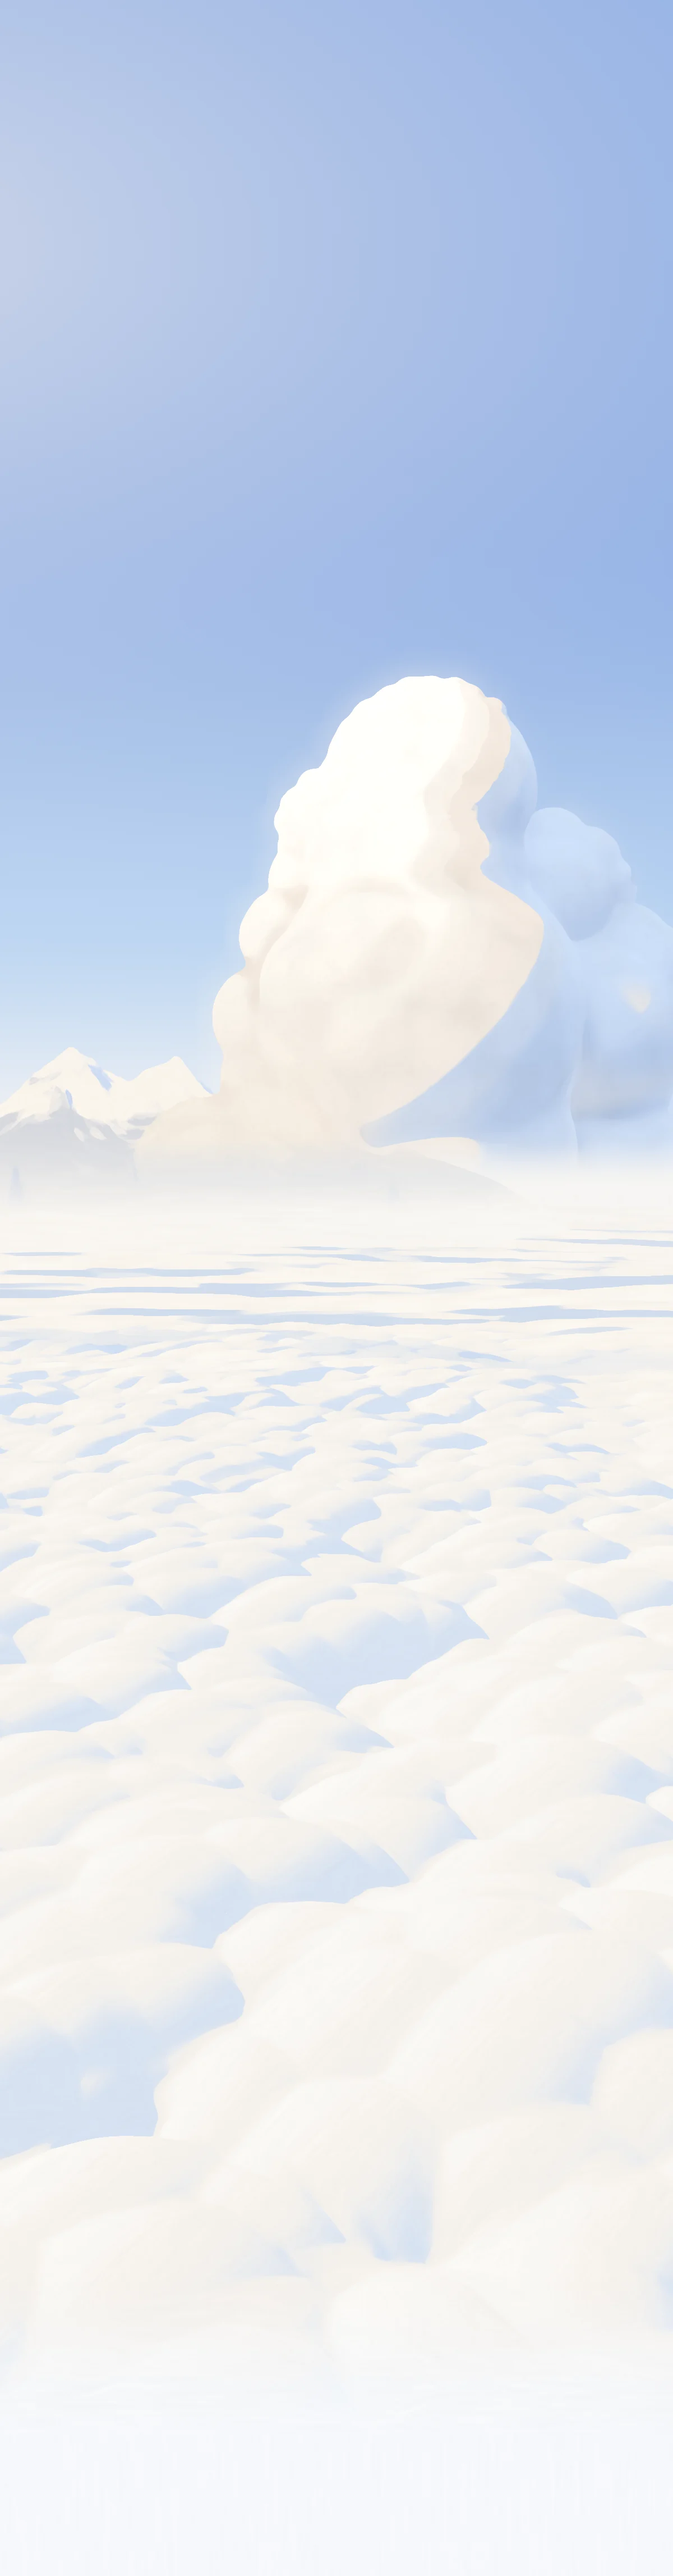
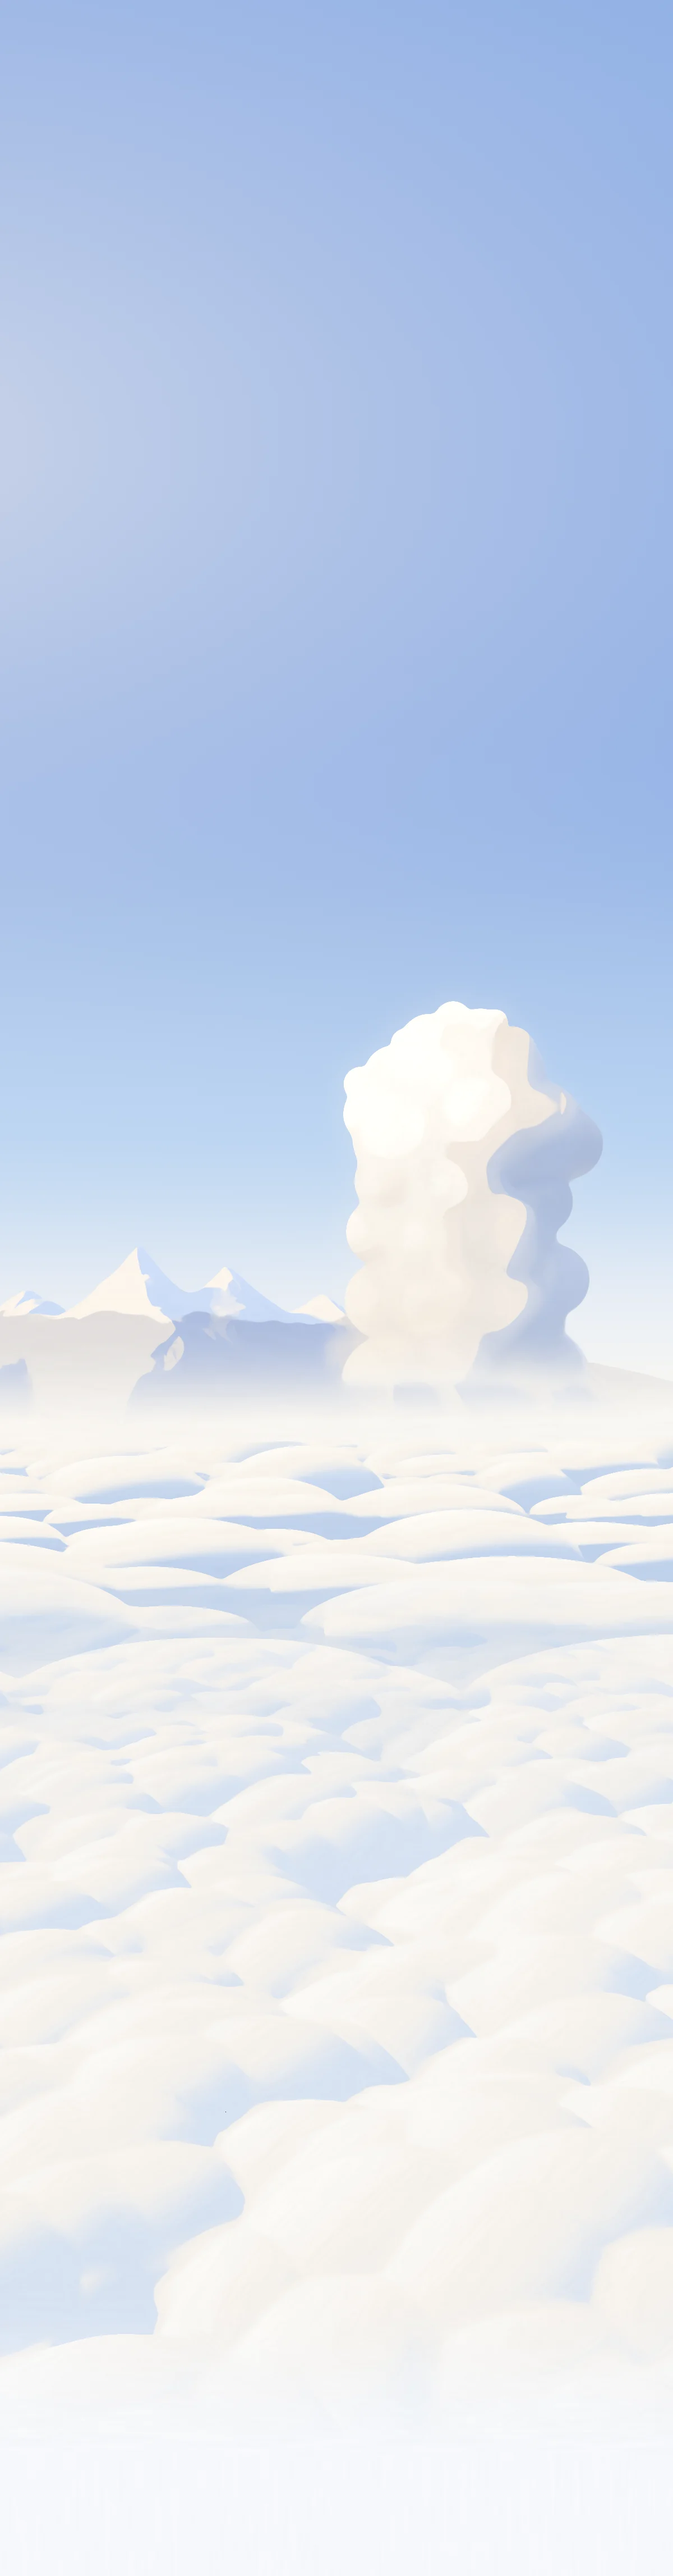
WIP: hero refine round 2
Checkpoint while the hero is being refined from the judges' notes.

Claude-Session: https://claude.ai/code/session_01WzuXxBvKBCaxNgCh2gAtvf

diff --git a/landing/css/sections/hero.css b/landing/css/sections/hero.css
@@ -46,9 +46,9 @@
   width: var(--sky-w, 150%);
   height: var(--sky-h, auto);
   transform: translate3d(var(--sky-x, -50%), var(--sky-shift, 0px), 0);
-  -webkit-mask: linear-gradient(90deg, transparent, #000 2.5%), linear-gradient(180deg, transparent, #000 5%);
+  -webkit-mask: linear-gradient(90deg, transparent, #000 2.5%), linear-gradient(180deg, transparent, #000 var(--sky-fade, 5%));
   -webkit-mask-composite: source-in;
-  mask: linear-gradient(90deg, transparent, #000 2.5%), linear-gradient(180deg, transparent, #000 5%);
+  mask: linear-gradient(90deg, transparent, #000 2.5%), linear-gradient(180deg, transparent, #000 var(--sky-fade, 5%));
   mask-composite: intersect;
   /* a tiny, blurred copy of the painting (inlined below) holds the place until the still decodes */
   background-repeat: no-repeat;
@@ -80,8 +80,8 @@
   }
 }
 /* lqip:start (written by scripts/bake-art.mjs: a tiny blurred copy of each still) */
[4 lines of base64/hex data omitted]
 /* lqip:end */
 /* the live render covers only the part of the box inside the frame (placed by hero.js) */
 .s-hero__live {
@@ -100,6 +100,18 @@
   opacity: 0.18;
   mix-blend-mode: soft-light;
   background-size: 160px 160px;
+}
+
+/* Where the painting's top edge sits inside the frame (portrait tablets), the copy is over the
+   deep blue of the zenith: a soft lift of the light behind it keeps the lead and facts readable. */
+.s-hero[data-art-mode="gap"] .s-hero__sky {
+  --sky-fade: 18%;
+}
+.s-hero[data-art-mode="gap"] .s-hero__art::after {
+  content: "";
+  position: absolute;
+  inset: 0;
+  background: radial-gradient(70% 34% at 50% 22%, rgba(244, 248, 253, 0.62), rgba(244, 248, 253, 0.3) 55%, rgba(244, 248, 253, 0) 100%);
 }
 
 /* ---------- copy ---------- */
@@ -122,7 +134,7 @@
 .s-hero__lead {
   /* a reading measure of about 62 characters, which also ends the lines before the cloud */
   max-width: 31em;
-  margin-top: clamp(18px, 1.5vw, 22px);
+  margin-top: clamp(20px, 1.6vw, 24px);
   color: #34415a;
 }
 @media (min-width: 1280px) {
@@ -1157,7 +1169,7 @@
     font-size: clamp(2.25rem, 0.9rem + 2.9vw, 3.375rem);
   }
   .s-hero__lead {
-    margin-top: 18px;
+    margin-top: 22px;
     font-size: 1.0625rem;
   }
   .s-hero__actions {
@@ -1322,7 +1334,7 @@
     font-size: 2.25rem;
   }
   .s-hero__lead {
-    margin-top: 12px;
+    margin-top: 16px;
     font-size: 0.96875rem;
     line-height: 1.48;
   }

diff --git a/landing/js/sections/hero.js b/landing/js/sections/hero.js
@@ -10,8 +10,9 @@ const PHONE = matchMedia('(max-width: 759.98px)');
 const TABLET = matchMedia('(max-width: 1099.98px)');
 const params = new URLSearchParams(location.search);
 const OUTLINE = { desktop: towerOutline(...FRAMES.desktop.tower), phone: towerOutline(...FRAMES.phone.tower) };
-// the stills' resolution in CSS pixels per world unit (1x: the 1x still; 2x screens get the 2x still)
-const STILL_U = { desktop: 2236 / FRAMES.desktop.width, phone: 600 / FRAMES.phone.width };
+// the 1x stills' widths (the 2x stills are twice that), and so their pixels per world unit
+const STILL_PX = { desktop: 2236, phone: 600 };
+const STILL_U = { desktop: STILL_PX.desktop / FRAMES.desktop.width, phone: STILL_PX.phone / FRAMES.phone.width };
 
 export function init(root) {
   const frame = root.querySelector('.s-hero__frame');
@@ -83,7 +84,7 @@ export function init(root) {
     sky.style.setProperty('--sky-top', `${top.toFixed(1)}px`);
     // around the painting's box: the zenith above it, the sky's own gradient to the horizon,
     // and the page below the sea
-    const z = Math.max(0, top + h * 0.06);
+    const z = Math.max(0, top + h * (place.mode === 'gap' ? 0.12 : 0.06));
     art.style.setProperty('--art-bg', `linear-gradient(180deg, #6b9ee3 ${z.toFixed(0)}px, #a9c9f1 ${(yh - 0.42 * (yh - z)).toFixed(0)}px, #e9f0f8 ${(yh - 14).toFixed(0)}px, #f7f4ef ${(yh + 24).toFixed(0)}px, #f6f8fb ${(yh + 5.5 * u).toFixed(0)}px)`);
     box = { name, comp: F, W, H, w, h, top, left, yh, u };
     root.dataset.artMode = place.mode;
@@ -121,9 +122,9 @@ export function init(root) {
     add(lines(title), 52);
     add(lines(lead), 48);
     add([actions.getBoundingClientRect(), facts.getBoundingClientRect()], 40);
-    const minTop = 78; // below the nav
+    const minTop = 92; // below the nav, with air
     const narrow = TABLET.matches;
-    const margin = narrow ? 0 : 36;
+    const margin = narrow ? 12 : 36;
     const crop = narrow ? 0.22 * (O.right - O.left) : 0;
     const half = F.width / 2;
 
@@ -134,7 +135,8 @@ export function init(root) {
           if (y < 0.2) continue; // at the horizon the tower stands behind the product
           const sy = yh - y * u;
           for (const b of bands) if (sy >= b.t - 12 && sy <= b.b + 12) lo = Math.max(lo, b.r + b.gap - xl * u);
-          hi = Math.min(hi, W - margin + crop * u - xr * u);
+          // the crown always stays whole; on tablets the shaded side of the body may run off the edge
+          hi = Math.min(hi, W - margin + (y < 2.8 ? crop * u : 0) - xr * u);
         }
         if (cover) { lo = Math.max(lo, W - half * u); hi = Math.min(hi, half * u); }
         if (lo <= hi) return { u, X0: lo + (hi - lo) * 0.3 };
@@ -189,8 +191,10 @@ export function init(root) {
     const L = box;
     if (!L) return;
     const dpr = Math.min(window.devicePixelRatio || 1, 2);
+    // device pixels the box needs against the pixels of the still the browser chose
+    // (naturalWidth is density-corrected under srcset, so read the candidate instead)
     const need = L.w * dpr;
-    const have = still.complete && still.naturalWidth ? still.naturalWidth : 0;
+    const have = still.complete && still.naturalWidth ? STILL_PX[L.name] * (/@2x\./.test(still.currentSrc) ? 2 : 1) : 0;
     if (!force && have && need <= have * 1.06) return;
 
     const mod = await import('../art/sky.js');

diff --git a/landing/js/art/frames.js b/landing/js/art/frames.js
@@ -13,7 +13,7 @@ export const frame = (width, top, bottom) => ({ aspect: width / (top - bottom), 
 // many billows it sprouts (0: the design is final); dz sets it back in depth. Units: k = 1.
 export const TOWER = [
   // foot, in the sea
-  [-1.2, 0.1, 0.65], [-0.2, 0.25, 0.9], [0.95, 0.15, 0.75],
+  [-1.2, 0.1, 0.65], [-0.2, 0.25, 0.9], [0.95, 0.15, 0.75, 0, 0, 0.35],
   // body: turrets stacked with alternating offsets
   [-0.35, 1.25, 1.0], [0.6, 1.05, 0.78], [-0.55, 2.15, 0.85], [0.45, 2.2, 0.8], [-0.25, 2.95, 0.88],
   // crown, wider than the neck: three big billows and two on top

diff --git a/landing/js/art/sky.js b/landing/js/art/sky.js
@@ -273,8 +273,8 @@ vec3 shadeCloud(vec3 p, vec2 w){
   // four planes with short transitions, stated rather than blended: shadow, a warm half-tone
   // where a turret turns away, light, and full light where it faces the sun
   float lit = smoothstep(-0.02, 0.04, L);
-  float top = smoothstep(0.14, 0.3, L);
-  float full = smoothstep(0.38, 0.56, L);
+  float top = smoothstep(0.16, 0.25, L);
+  float full = smoothstep(0.4, 0.5, L);
   gLit = lit;
 
   // shadow: a cool, slightly grey blue, lifted where it faces the sky, warmed from below by
